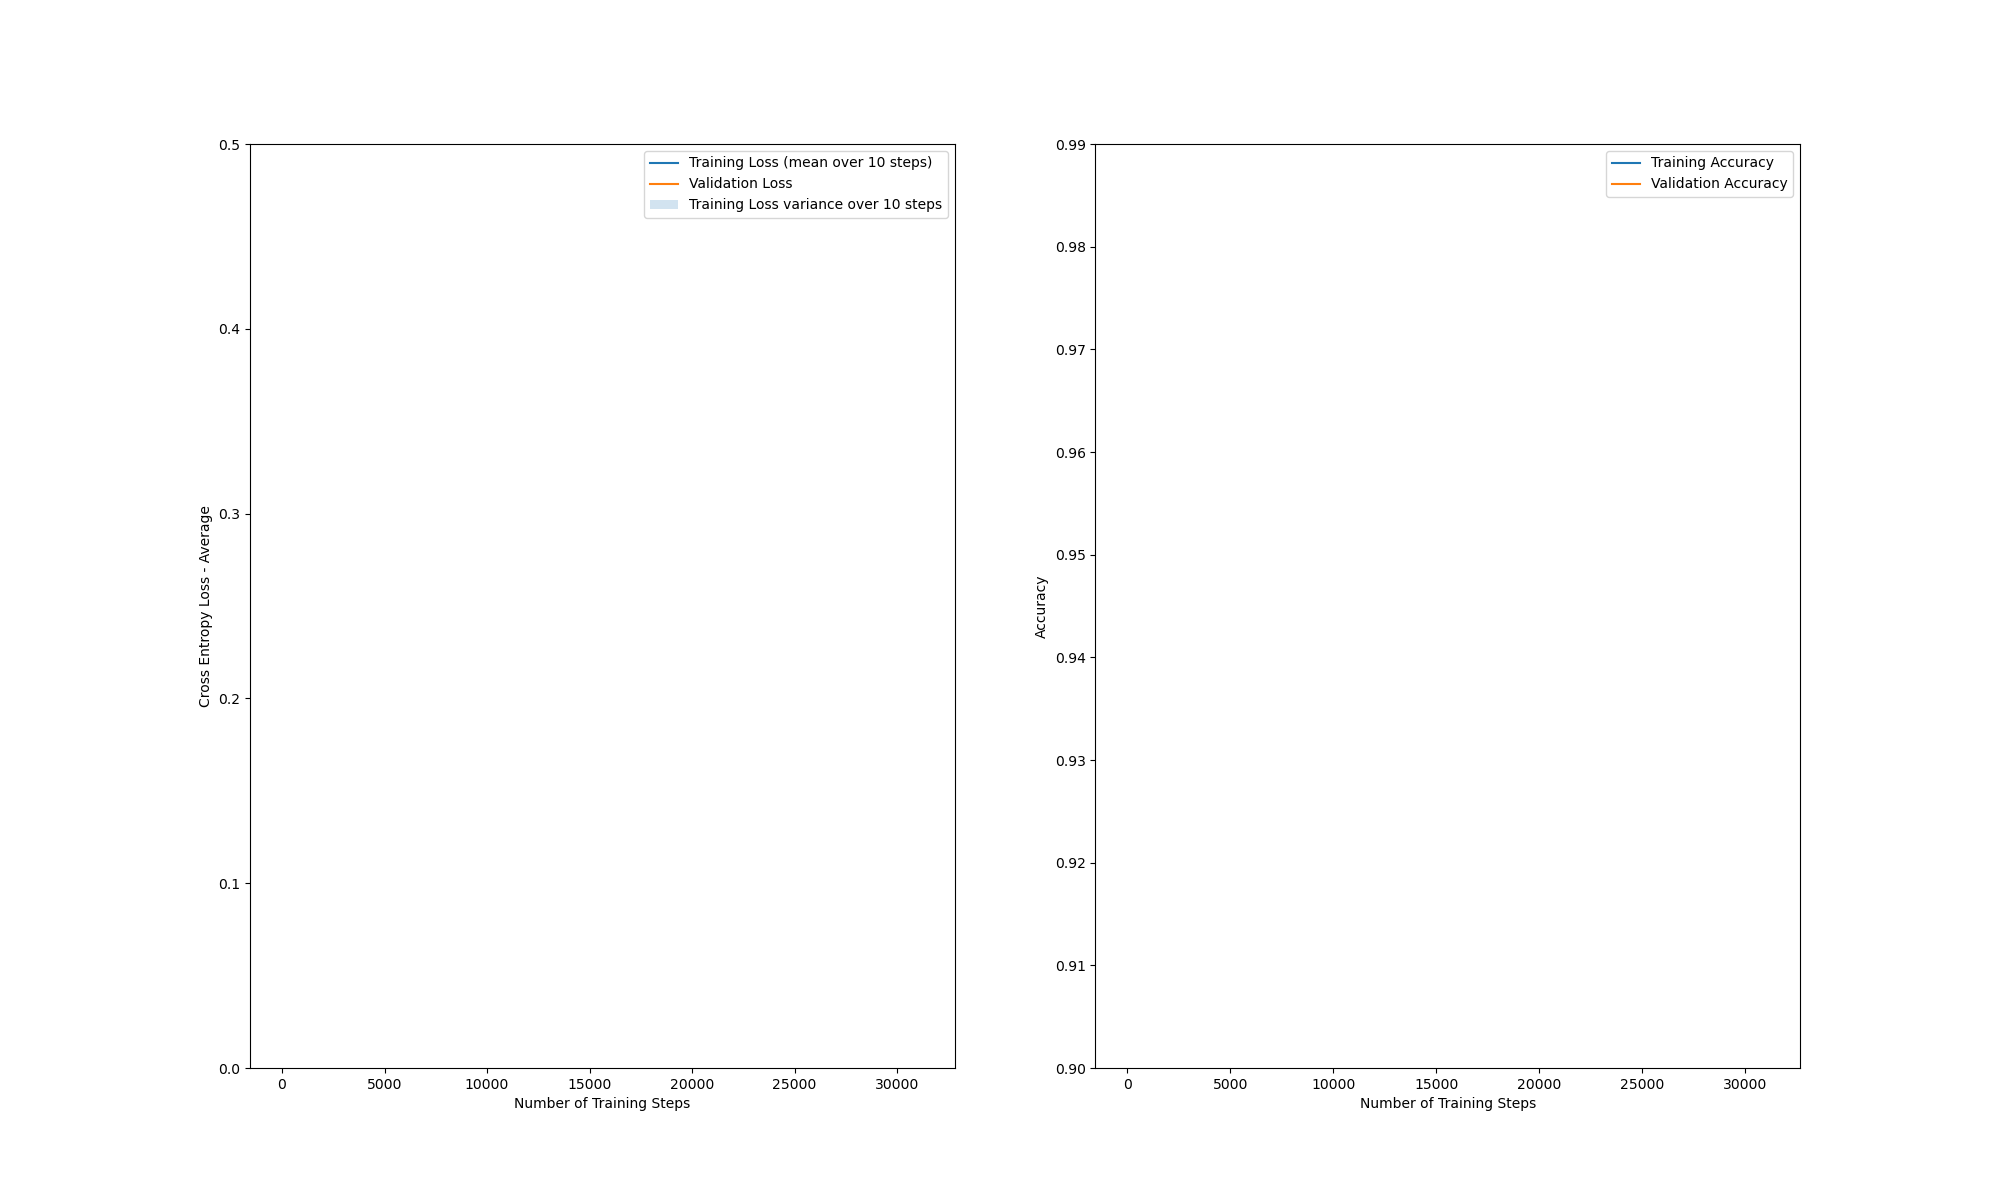
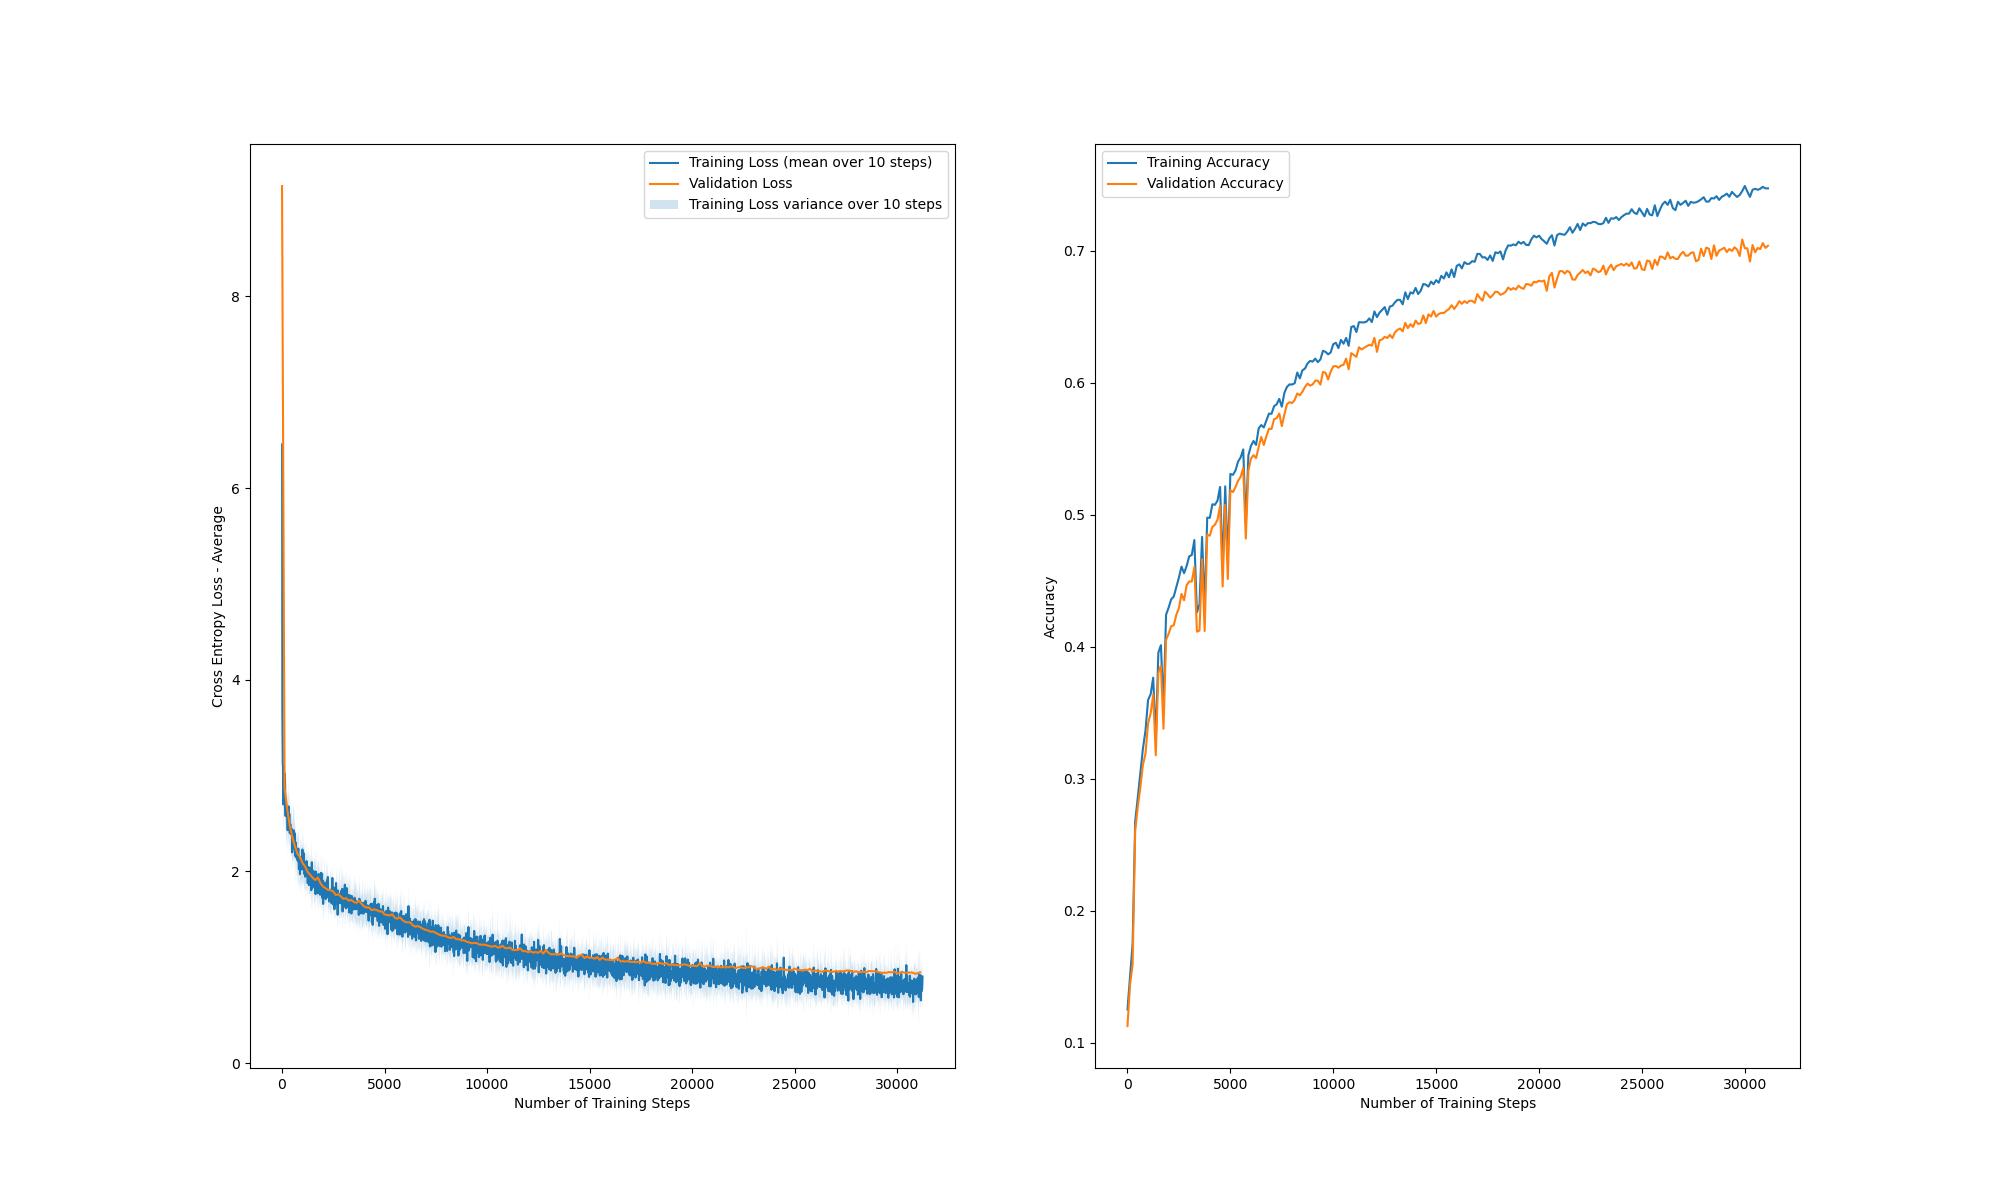
YES

diff --git a/assignment2/task2a.py b/assignment2/task2a.py
@@ -59,7 +59,6 @@ class SoftmaxModel:
         # Define number of input nodes
         self.I = 785
         self.use_improved_sigmoid = use_improved_sigmoid
-        self.alpha = 0.001
 
         # Define number of output nodes
         # neurons_per_layer = [64, 10] indicates that we will have two layers:
@@ -73,7 +72,7 @@ class SoftmaxModel:
         for size in self.neurons_per_layer:
             w_shape = (prev, size)
             print("Initializing weight to shape:", w_shape)
-            w = np.zeros(w_shape)
+            w = np.random.normal(-1,1,w_shape)
             self.ws.append(w)
             prev = size
         self.grads = [None for i in range(len(self.ws))]
@@ -94,16 +93,15 @@ class SoftmaxModel:
         layer_output = X
 
         
-        z = layer_output.dot(self.ws[0])
-        layer_output = 1/(1+np.exp(-z))
-        self.zs.append(z)
-        self.activations.append(layer_output)
-        z = layer_output.dot(self.ws[1])
-        layer_output = 1/(1+np.exp(-z))
-        self.zs.append(z)
-        self.activations.append(layer_output)
+        for weights in self.ws:
+            z = layer_output.dot(weights)
+            layer_output = 1/(1+np.exp(-z))
+            self.zs.append(z)
+            self.activations.append(layer_output)
 
-        return np.exp(z)/np.transpose(np.array([np.sum(np.exp(z),axis=1)]))
+        softmax_layer = np.exp(z)/np.transpose(np.array([np.sum(np.exp(z),axis=1)]))
+
+        return softmax_layer
 
     def backward(self, X: np.ndarray, outputs: np.ndarray,
                  targets: np.ndarray) -> None:
@@ -121,7 +119,7 @@ class SoftmaxModel:
             f"Output shape: {outputs.shape}, targets: {targets.shape}"
         # A list of gradients.
         # For example, self.grads[0] will be the gradient for the first hidden layer
-        self.grads = np.array([np.zeros_like(weight) for weight in self.ws])
+        self.grads = [np.zeros_like(weight) for weight in self.ws]
 
         N = X.shape[0]
 
@@ -134,7 +132,7 @@ class SoftmaxModel:
         delta_1 = 1/N*(self.activations[1].T@diff)
         self.grads[-1] = delta_1
 
-        for layer in range(1,self.grads.shape[0]):
+        for layer in range(1,len(self.grads)):
             sp = sigmoid_prime(self.zs[-layer+1])
             delta_layer = sp*(diff@self.ws[-layer].T)
 

diff --git a/assignment2/task2.py b/assignment2/task2.py
@@ -57,7 +57,8 @@ class SoftmaxTrainer(BaseTrainer):
 
         model.backward(X_batch,logits,Y_batch)
 
-        model.ws = model.ws - model.alpha*model.grads
+        for i,grad in enumerate(model.grads):
+            model.ws[i] -= self.learning_rate*grad
 
         loss = cross_entropy_loss(Y_batch, logits)  # sol
 
